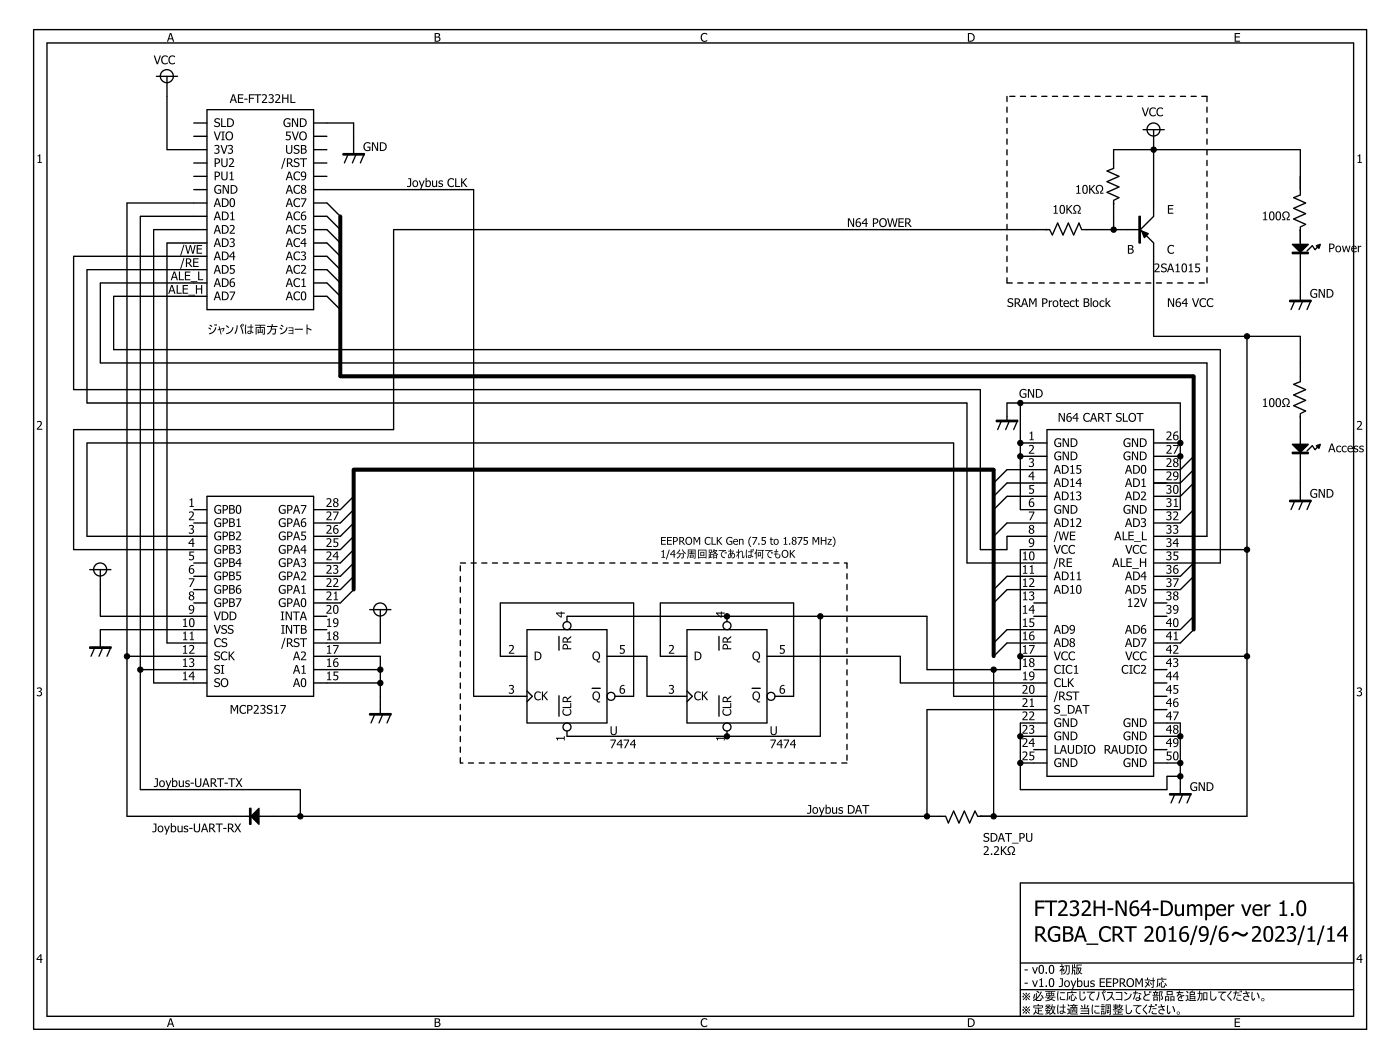
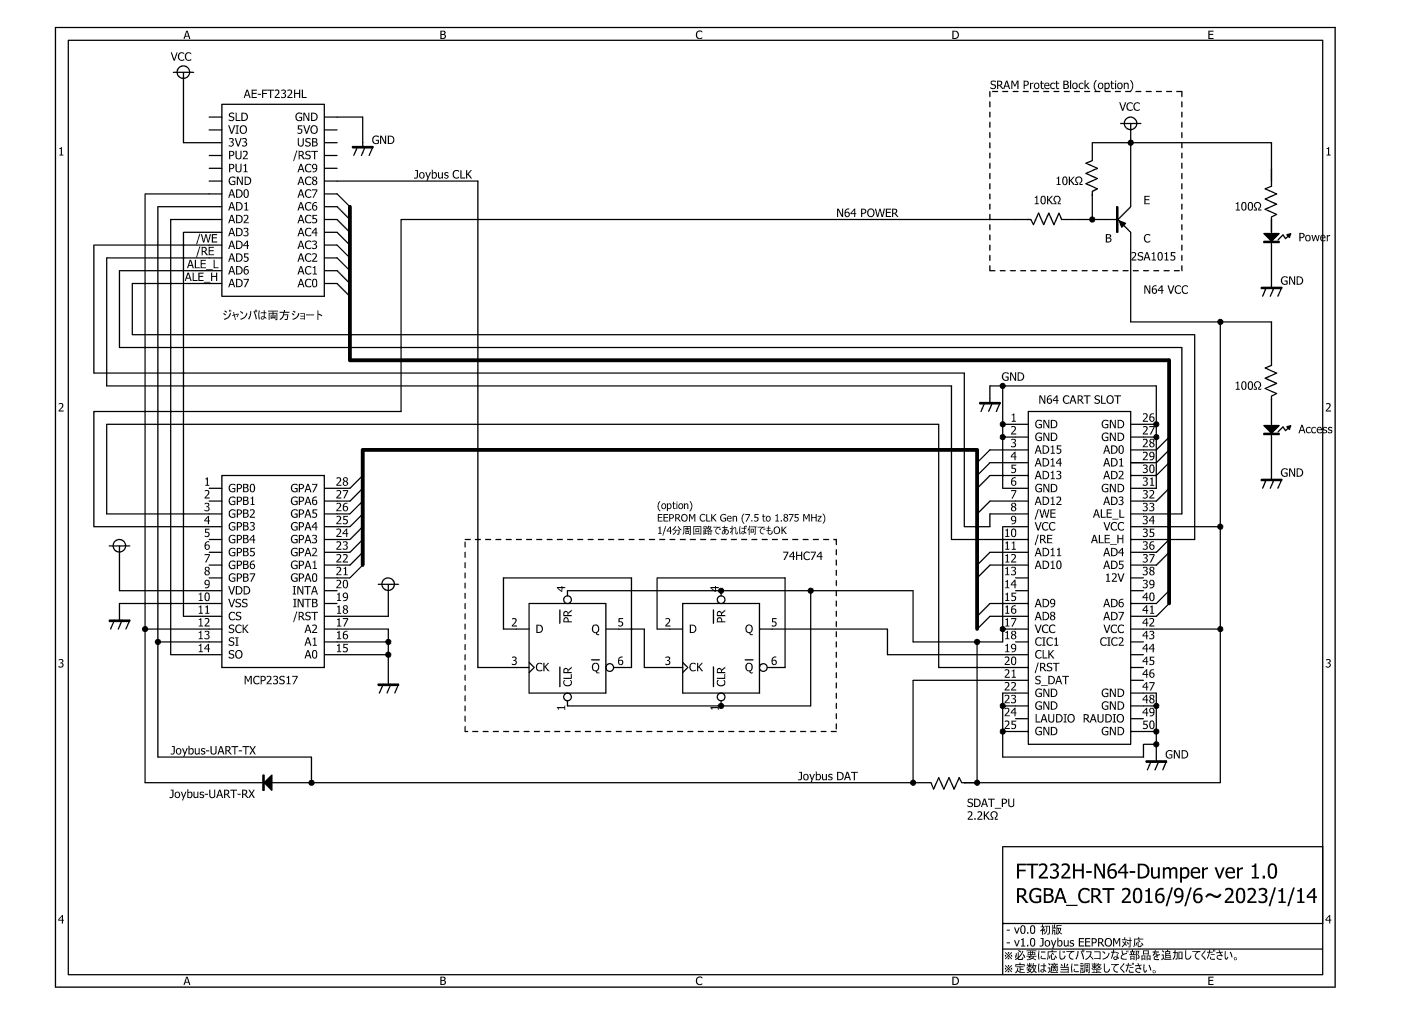
Add 74HC74 to Kairo.

Changed region(s): [[0.0309, 0.0, 0.9878, 0.9725]]

diff --git a/README.md b/README.md
@@ -4,7 +4,7 @@ N64 ROM Dumper using FTDI FT232H
 
 ## About
 部品点数が少なく手に入りやすい部品で作ったN64ROM吸い出し機です。
-セーブデータの吸い出しに対応しており、SRAM/FLASH, v1.1以降はEEPROMも吸い出し可能です。書き込みは未実装。
+セーブデータの吸い出しに対応しており、SRAM/FLASH, v1.0以降はEEPROMも吸い出し可能です。書き込みは未実装。
 FT232Hを使うことで、300～400KB/s程度の比較的速い速度で吸い出す事ができます。
 ActiveBasic4で雑に書いたテストプログラムです。Windowsでしか動作しません。
 
@@ -31,25 +31,23 @@ This is N64 cart dumper using FTDI FT232H. It can dump ROM and SRAM/Flash and EE
 ![回路図](https://raw.githubusercontent.com/RGBA-CRT/FT232H-N64-Dumper/master/Kairo_v1.0.png "回路図")    
 
 - 部品の定数の調整、パスコンなどは適宜環境似合わせて調整してください。
-- [回路をv0.0からv1.1へ更新する際のガイド](https://github.com/RGBA-CRT/FT232H-N64-Dumper/wiki/Circuit-v1.0)
+- SRAM Protect Blockは省略可能です。省略した場合、SRAMのセーブデータは保証されません。
+- EEPROM CLK Genは省略可能です。省略した場合、EEPROMのセーブデータの吸い出しはできません。
+- 回路v1.0からEEPROMに対応しました。[回路をv0.0からv1.0更新する際のガイド](https://github.com/RGBA-CRT/FT232H-N64-Dumper/wiki/Circuit-v1.0)
 - FT232HのEEPROMの設定が必要です。
    - FT_Progでconfig_FT232H.xmlを書き込んでください。[FT232H-EEPROM-config](https://github.com/RGBA-CRT/FT232H-N64-Dumper/wiki/FT232H-EEPROM-config)
 
 ## セーブデータに関する注意　/ Warning for save data
- * セーブデータ保護回路を省いた場合、SRAMを用いたソフト（時のオカリナなど）のセーブが飛ぶ可能性が高くなります。
- * 保護回路を入れたとしても消えるものは消えます。
+ * セーブデータ保護回路がある場合でも、SRAMを用いたソフト（時のオカリナなど）のセーブデータは破損しやすいため注意してください。
  * Windows側でソフトを立ち上げ、[INSERT CART AND PRESS ENTER]の表示を見るまでカートリッジを挿入しないでください。
  * 吸出し中や、アクセスLEDが点灯中はカートリッジを抜かないでください。
  ---
- * If save data protection circuit is omitted, the possibility of break SRAM save game (ocarina of time etc.) will increase.
+ * Even if there is a save data protection circuit, save data for software that uses SRAM (Ocarina of Time, etc.) is easily damaged, so be careful.
  * Do not insert the cartridge until you start up the software on the Windows side and look at the message of [INSERT CART AND PRESS ENTER].
  * Do not remove the cartridge during the access LED is lit.
 
-## 開発環境 / Environment
-- TargetOS : Windows
-- Main-Parts : FT232HL + MCP23S17
-
- * コンパイルにはこちらのライブラリが必要です。depends following library.  
+## 開発環境 / dev env
+コンパイルにはこちらのライブラリが必要です。depends following library.  
 <https://github.com/RGBA-CRT/RGBALib>
 
 ## 参考 / Reference pages
